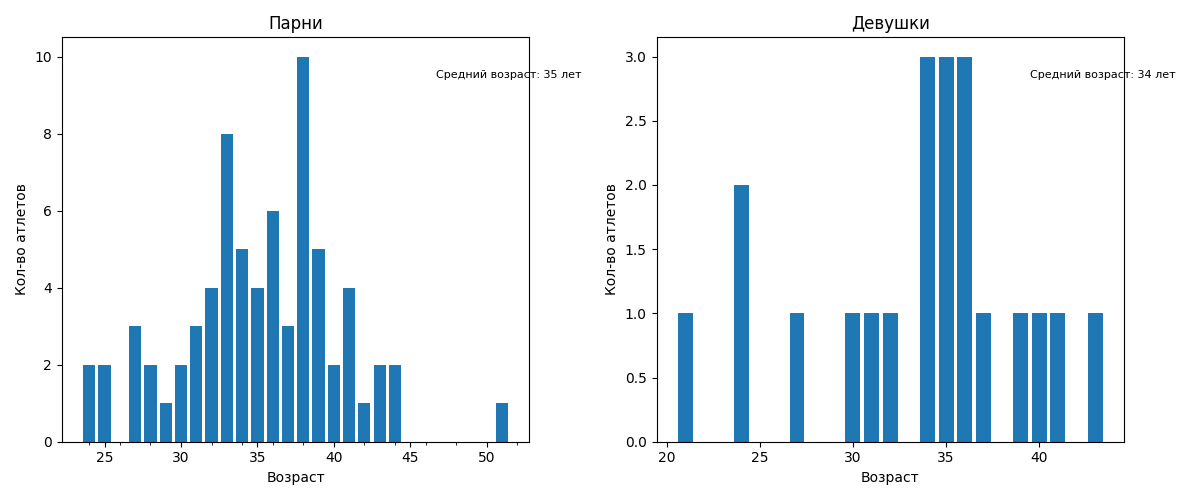
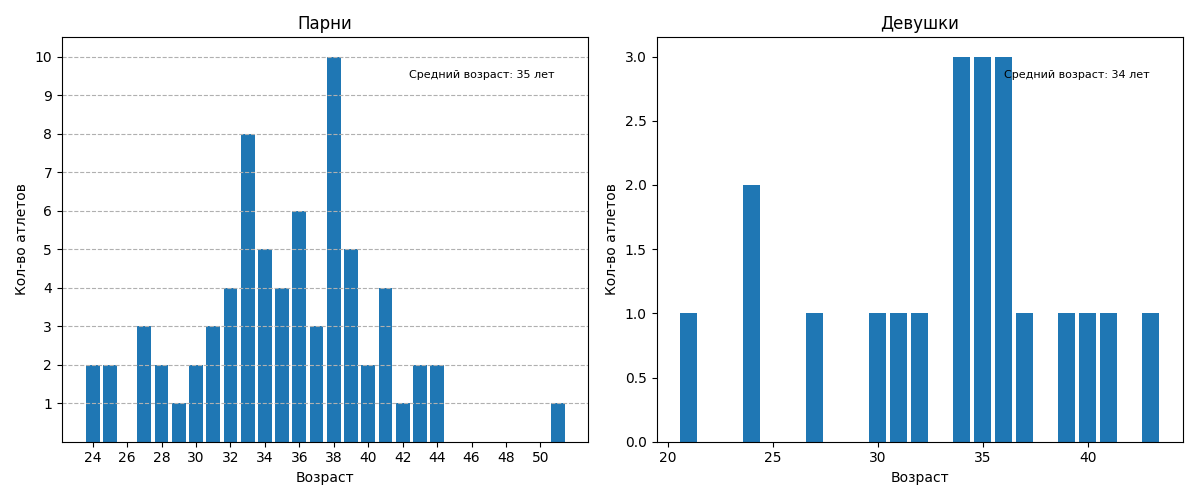
weekly questions to do

diff --git a/handlers/questions.py b/handlers/questions.py
@@ -1,0 +1,172 @@
+import logging
+import os
+import re
+
+from aiogram import types, Dispatcher
+from aiogram.dispatcher import FSMContext
+from aiogram.utils.callback_data import CallbackData
+from aiogram.dispatcher.filters.state import State, StatesGroup
+
+from create_bot import bot, db
+
+from keyboards.user_kb import (answer_week,
+                               question_1,
+                               question_2,
+                               question_3,
+                               question_4,
+                               question_5,
+                               question_6,
+                               question_7)
+
+
+class Questions(StatesGroup):
+    workouts_volume = State()
+    self_results = State()
+    scaling = State()
+    reduce = State()
+    fatigue = State()
+    recovery = State()
+    general = State()
+
+
+async def prepare_weekly_data(
+        user_id: int,
+        week_id: str,
+        sta
+)
+
+async def start_questions_about_workout_week(state: FSMContext):
+    """
+    Starts the question sequence about he passing week workouts.
+    """
+    users_to_ask = [368362025,]
+    for user in users_to_ask:
+        await bot.send_message('Привет!\n\n'
+                         'Ответь пожалуйста на пару вопросов о тренировках'
+                         'почти прошедшей недели 🤖',
+                         chat_id=user,
+                         reply_markup=answer_week
+        )
+        await state.set_state(Questions.workouts_volume)
+
+
+async def ask_about_workout_volume(query: types.CallbackQuery,
+                                   state: FSMContext):
+    if query.data == 'do_the_answers':
+        await query.message.edit_text(
+            'Оцените объем нагрузки на этой неделе:',
+            reply_markup=question_1
+        )
+        await query.answer()
+
+
+async def get_volume_and_ask_for_results(query: types.CallbackQuery,
+                                         state: FSMContext):
+    """
+
+    """
+    if query.data.startswith('select_'):
+        user_answer = int(query.data.split('_')[1])
+        async with state.proxy() as data:
+            data['wrkt_volume'] = user_answer
+            await query.message.edit_text(
+                'Окей\n\n'
+                'Оцените то, насколько субъективно'
+                ' вы довольны результатами тренировок на этой неделе',
+                reply_markup=question_2
+            )
+            await state.set_state(Questions.self_results)
+            await query.answer()
+
+
+async def get_results_and_ask_for_scaling(query: types.CallbackQuery,
+                                          state: FSMContext):
+    """
+
+    """
+    if query.data.startswith('select_'):
+        user_answer = int(query.data.split('_')[1])
+        async with state.proxy() as data:
+            data['results'] = user_answer
+            await query.message.edit_text(
+                'Окей\n\n'
+                'Приходилось ли вам масштабировать задания?',
+                reply_markup=question_3
+            )
+            await state.set_state(Questions.scaling)
+            await query.answer()
+
+
+async def get_scaling_and_ask_for_reducing(query: types.CallbackQuery,
+                                           state: FSMContext):
+    """
+
+    """
+    if query.data.startswith('select_'):
+        user_answer = int(query.data.split('_')[1])
+        async with state.proxy() as data:
+            data['scaling'] = user_answer
+            await query.message.edit_text(
+                'Окей\n\n'
+                'Убирали ли вы какие-то задания из программы?',
+                reply_markup=question_4
+            )
+            await state.set_state(Questions.reduce)
+            await query.answer()
+
+
+async def get_reduce_and_ask_for_fatigue(query: types.CallbackQuery,
+                                         state: FSMContext):
+    """
+
+    """
+    if query.data.startswith('select_'):
+        user_answer = int(query.data.split('_')[1])
+        async with state.proxy() as data:
+            data['reduce'] = user_answer
+            await query.message.edit_text(
+                'Окей\n\n'
+                'Оцените уровень своего утомления и мышечной боли:',
+                reply_markup=question_5
+            )
+            await state.set_state(Questions.fatigue)
+            await query.answer()
+
+
+async def get_fatigue_and_ask_about_recovery(query: types.CallbackQuery,
+                                             state: FSMContext):
+    if query.data.startswith('select_'):
+        user_answer = int(query.data.split('_')[1])
+        async with state.proxy() as data:
+            data['fatigue'] = user_answer
+            await query.message.edit_text(
+                'Окей\n\n'
+                'Оцените нетренировочные факторы: сон, питание и восстановление',
+                reply_markup=question_6
+            )
+            await state.set_state(Questions.recovery)
+            await query.answer()
+
+
+async def get_recovery_and_ask_for_general(query: types.CallbackQuery,
+                                           state: FSMContext):
+    if query.data.startswith('select_'):
+        user_answer = int(query.data.split('_')[1])
+        async with state.proxy() as data:
+            data['recovery'] = user_answer
+            await query.message.edit_text(
+                'Окей\n\n'
+                'Как вы чувствуете себя в целом?',
+                reply_markup=question_7
+            )
+            await state.set_state(Questions.general)
+            await query.answer()
+
+
+async def get_general_and_add_data(query: types.CallbackQuery,
+                                   state: FSMContext):
+    if query.data.startswith('select_'):
+        user_answer = int(query.data.split('_')[1])
+        async with state.proxy() as data:
+            data['general'] = user_answer
+

diff --git a/keyboards/user_kb.py b/keyboards/user_kb.py
@@ -31,6 +31,61 @@ CHOSE_EXERCISE_CATEGORY = (
     ('Техника упражнений', 'exercises'),
 )
 
+QUESTION_1 = (
+    ('Очень низкий', 'select_1'),
+    ('Низкий', 'select_2'),
+    ('Средний', 'select_3'),
+    ('Высокий', 'select_4'),
+    ('Очень высокий', 'select_5')
+)
+
+QUESTION_2 = (
+    ('Вообще не доволен', 'select_1'),
+    ('Не доволен', 'select_2'),
+    ('Скорее, доволен', 'select_3'),
+    ('Доволен', 'select_4'),
+    ('Очень доволен', 'select_5')
+)
+
+QUESTION_3 = (
+    ('Нет, всё как есть', 'select_1'),
+    ('Масштабировал 1–2 задания', 'select_2'),
+    ('Масштабировал 3–4 задания', 'select_3'),
+    ('Масштабировал больше 4 заданий', 'select_4')
+
+)
+
+QUESTION_4 = (
+    ('Нет, всё как есть', 'select_1'),
+    ('Убрал 1 задание', 'select_2'),
+    ('Убрал 2–3 задания', 'select_3'),
+    ('Убрал больше 4 заданий', 'select_4')
+)
+
+QUESTION_5 = (
+    ('Мышцы болят так, что сложно в обычной жизни', 'select_1'),
+    ('Мышцы болят', 'select_2'),
+    ('Мышцы слегка побаливают', 'select_3'),
+    ('Мышцы немного ощущаются, а так норм', 'select_4'),
+    ('Отличное самочувствие, свежий, ничего не болит', 'select_5')
+)
+
+QUESTION_6 = (
+    ('Всё плохо', 'select_1'),
+    ('Скорее плохо, чем хорошо', 'select_2'),
+    ('Скорее хорошо, чем плохо', 'select_3'),
+    ('Всё хорошо', 'select_4'),
+    ('Просто отлично', 'select_5')
+)
+
+QUESTION_7 = (
+    ('Плохо', 'select_1'),
+    ('Неважно', 'select_2'),
+    ('Нормально', 'select_3'),
+    ('Хорошо', 'select_4'),
+    ('Огонь', 'select_5')
+)
+
 
 # main menu buttons
 workout_button = KeyboardButton('🏋 Тренировки')
@@ -147,6 +202,19 @@ gender_keyboard = create_inline_keyboard(
 answer_question = create_inline_keyboard(
     (('Да, с удовольствием отвечу 🦄', 'answer_question'),)
 )
+
+# inline keyboards for questions about the workout week
+answer_week = create_inline_keyboard(
+    (('Рассказать о прошедшей неделе', 'do_the_answers'))
+)
+
+question_1 = create_inline_keyboard(QUESTION_1)
+question_2 = create_inline_keyboard(QUESTION_2)
+question_3 = create_inline_keyboard(QUESTION_3)
+question_4 = create_inline_keyboard(QUESTION_4)
+question_5 = create_inline_keyboard(QUESTION_5)
+question_6 = create_inline_keyboard(QUESTION_6)
+question_7 = create_inline_keyboard(QUESTION_7)
 
 # inline keyboard for choosing level during registration
 choose_kb = create_inline_keyboard(CHOOSE_LEVEL_BTN)

diff --git a/graphic/graphic.py b/graphic/graphic.py
@@ -179,27 +179,30 @@ async def ages_of_users_histogram(men_ages: list,
 
     # Plot the histograms
     fig, (ax1, ax2) = plt.subplots(1, 2, figsize=(12, 5))
-
-    men_ages_sorted = sorted(men_histogram.keys())
-    ax1.set_xticks(ticks=[i for i in range(0, 55, 2)], minor=True)
-    ax1.seax1.set_xticklabels(labels=[i for i in range(0, 55, 2)], rotation=45)
     ax1.bar(
         men_histogram.keys(),
         men_histogram.values(),
         align='center',
     )
+    ax1.set_xticks(range(min(men_histogram.keys()),
+                     max(men_histogram.keys()) + 1, 2))
+    ax1.set_yticks(range(min(men_histogram.values()),
+                     max(men_histogram.values()) + 1))
     ax1.set_title('Парни')
     ax1.set_xlabel('Возраст')
     ax1.set_ylabel('Кол-во атлетов')
-    ax1.annotate(f'Cредний возраст: {men_mean_age:.0f} лет', xy=(0.8, 0.9),
+    ax1.annotate(f'Cредний возраст: {men_mean_age:.0f} лет', xy=(0.66, 0.9),
                  xycoords='axes fraction', fontsize=8)
+    ax1.grid(axis='y', linestyle='--')
 
     ax2.bar(women_histogram.keys(), women_histogram.values(), align='center')
     ax2.set_title('Девушки')
     ax2.set_xlabel('Возраст')
     ax2.set_ylabel('Кол-во атлетов')
-    ax2.annotate(f'Cредний возраст: {women_mean_age:.0f} лет', xy=(0.8, 0.9),
+    ax2.annotate(f'Cредний возраст: {women_mean_age:.0f} лет', xy=(0.66, 0.9),
                  xycoords='axes fraction', fontsize=8)
+    mplcyberpunk.add_glow_effects(ax1)
+    mplcyberpunk.add_glow_effects(ax2)
 
     plt.tight_layout()
     plt.savefig(f'media/user_ages.png')

diff --git a/handlers/users.py b/handlers/users.py
@@ -471,7 +471,7 @@ async def start_poll_for_time_in_progress():
     active_users = await db.get_telegram_ids_of_active_users()
     answered_users = await db.get_telegram_ids_who_answered()
     users_to_ask = set(active_users) - set(answered_users)
-    logging.info(f'{users_to_ask}')
+    logging.info(f'Users to ask: {users_to_ask}')
     # for user_id in users_to_ask:
     await bot.send_message(
         chat_id=368362025,

diff --git a/database/sqlite_db.py b/database/sqlite_db.py
@@ -1652,3 +1652,5 @@ class Database:
                 "sub_status is TRUE"
             ).fetchall()
         return men_data, women_data
+
+    async def add_data_to_weekly_table(self,):

diff --git a/handlers/__init__.py b/handlers/__init__.py
@@ -9,3 +9,4 @@ from handlers import aerobic_capacity
 from handlers import gymnastics
 from handlers import profile
 from handlers import freeze
+from handlers import questions
